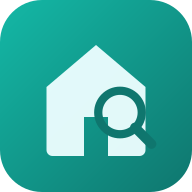
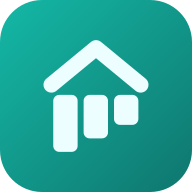
feat(icones): remplacer la loupe par « Le relevé »
La maison sous une loupe disait le métier d'un portail d'annonces. Cette
app ne cherche pas, elle SURVEILLE dans la durée : historisation, série
de prix, détection de republication, passage horaire. Le nouveau mark est
un toit posé sur trois relevés décroissants — la baisse de prix, le
signal que l'app existe pour attraper.

Le dessin avait aussi un défaut mesurable : l'anneau de la loupe était
tracé en #0f766e, le stop SOMBRE du fond, par-dessus une maison #ecfeff.
Deux contrastes opposés dans 58 px de rayon ; sous 32 px l'intérieur de
l'anneau se remplissait du blanc de la maison. Ici, une seule encre.

Le cadrage est mesuré : 280 px des 512, centré exactement sur (256, 256)
demi-épaisseur de trait comprise. Le maskable n'est plus qu'une copie du
favicon sans ses coins arrondis — plus de `translate(-13.5 -12)` ni de
réduction à 88 %, que le manche de la loupe imposait. Le point le plus
éloigné du centre est à 188 px, pour une limite de 204,8.

Au passage, un défaut qui ne venait pas de ce dessin-ci :
`apple-touch-icon.png` était rendu depuis la tuile ARRONDIE. iOS n'accepte
pas la transparence et aplatit les coins sur le `--bg` de `pwa-icons`,
qui vaut `12,18,34` par défaut — le bleu-noir d'une autre app de la
famille. Mesuré sur le fichier livré : coin à `12,18,34,255`, soit un
cadre sombre autour de la tuile sur l'écran d'accueil d'un iPhone. Il est
désormais rendu depuis la source à fond perdu, qui n'a aucun coin à
[…]

Changed region(s): [[0.2188, 0.1875, 0.7812, 0.8125]]

diff --git a/index.html b/index.html
@@ -50,10 +50,12 @@
       il ignorait la balise et posait une CAPTURE DE LA PAGE sur l'écran
       d'accueil. Le 180 est la taille que réclament les iPhone récents.
 
-      Il est tiré du `icon-512.png` DÉJÀ LIVRÉ, et non régénéré depuis
-      `favicon.svg` : le jeu versionné ne sort pas du `pwa-icons` actuel, et
-      repartir de la source aurait remplacé des images en production pour un
-      défaut qui ne les concerne pas.
+      Il est rendu depuis `icon-maskable-512.svg` — la source À FOND PERDU — et
+      non depuis `favicon.svg`. iOS pose son propre masque et n'accepte pas la
+      transparence : partir de la tuile arrondie fait aplatir ses coins sur une
+      couleur, et le fichier livré jusqu'au 14/09/2026 les portait en
+      `12,18,34`, le bleu-noir par défaut de `pwa-icons`. Voir
+      `scripts/generate-maskable.mjs`, qui l'écrit avec le maskable.
     -->
     <link rel="apple-touch-icon" href="apple-touch-icon.png" />
     <meta
